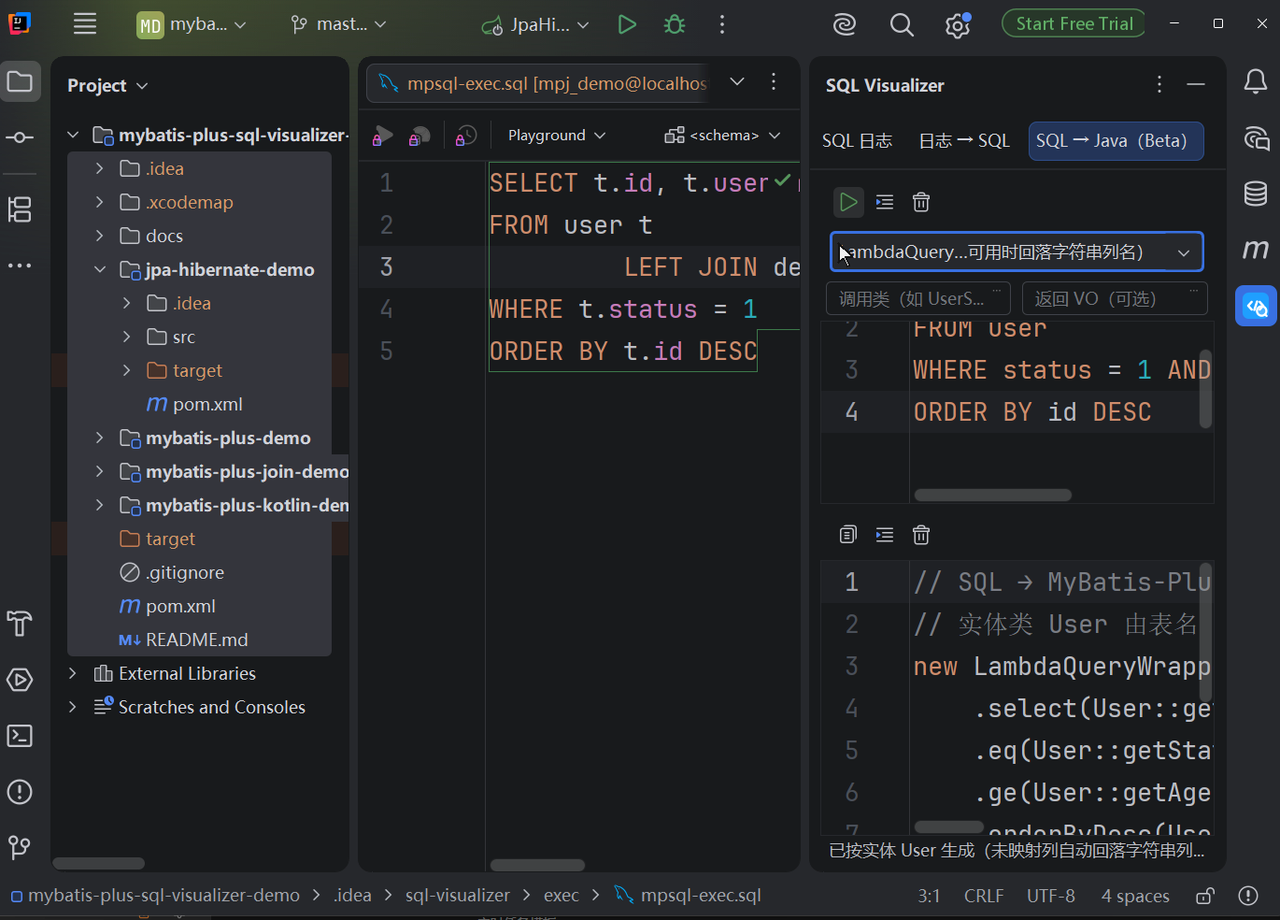
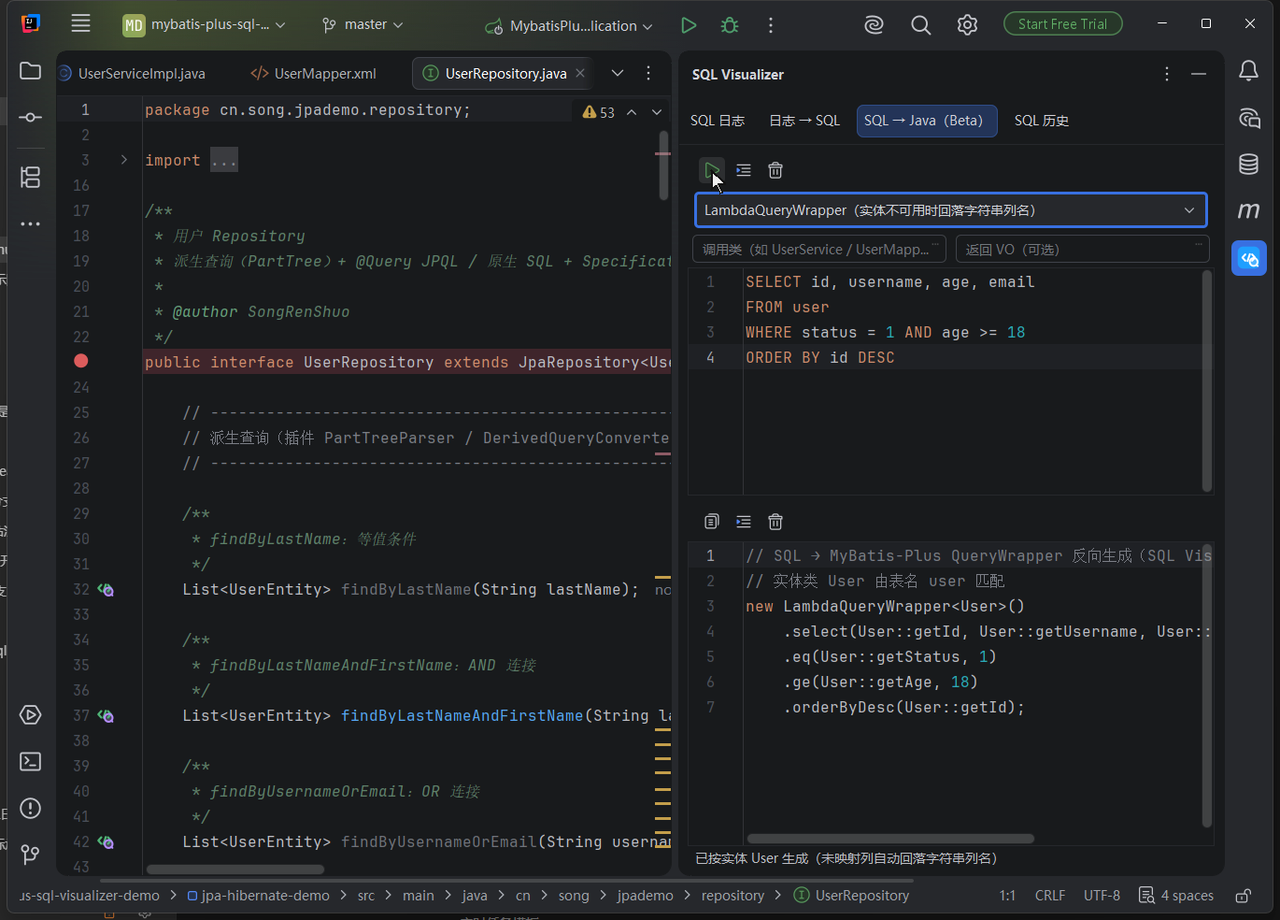
feat(demo): 修订十一落地——T6b sql-to-java 宽侧栏构图重录+T12 GifPlayer hydration 补位+T13 指南配图
- T6b: 输入编辑器回归已消失（master→dev 合并顺带修复）；按用户构图要求重录——工具窗拓宽 ~650px、底部 Services 关闭；成品 10.9s/0.3MB，poster=Lambda 完整代码帧
- T12: GifPlayer.vue 移植 efda401 挂载补位（syncGifState+watch loaded/playing），口径统一为默认显示 GIF、失败回落 poster；实测竞态在懒加载门下不可复现，补位为双保险
- T13: getting-started zh/en 嵌 wrapper-preview.gif；configuration zh/en 嵌 settings.png（主设置页，弹框居中暗色）
- 验收: build 通过 + puppeteer 8 项全绿（冷/热缓存、失败兜底、暗色、指南页、sql-to-java 新图）

diff --git a/.vitepress/theme/components/GifPlayer.vue b/.vitepress/theme/components/GifPlayer.vue
@@ -1,5 +1,5 @@
 <script setup lang="ts">
-import { ref, onMounted, onUnmounted } from 'vue'
+import { ref, onMounted, onUnmounted, watch, nextTick } from 'vue'
 
 const props = defineProps<{
   src: string
@@ -17,7 +17,19 @@ const videoEl = ref<HTMLVideoElement>()
 /** GIF 就绪后淡入覆盖 poster；失败则摘除 GIF 叠层，poster 常驻兜底（T9c） */
 const gifReady = ref(false)
 const gifError = ref(false)
+const gifImg = ref<HTMLImageElement>()
 let observer: IntersectionObserver | null = null
+
+/** 缓存命中的 GIF 可能在 @load 监听器就位前已 complete（hydration 竞态，load 永不
+    触发，gifReady 恒 false → 叠层恒透明退化为静态 poster），按 complete + naturalWidth
+    直接补位（同 efda401 首页两组件口径：就绪置 ready，complete 且宽 0 视为失败） */
+function syncGifState() {
+  if (!props.poster || !playing.value) return
+  const img = gifImg.value
+  if (!img?.complete) return
+  if (img.naturalWidth > 0) gifReady.value = true
+  else gifError.value = true
+}
 
 onMounted(() => {
   if (!container.value) return
@@ -31,7 +43,11 @@ onMounted(() => {
     { rootMargin: '200px' }
   )
   observer.observe(container.value)
+  syncGifState()
 })
+
+// 懒加载门打开后 GIF img 才挂载（暂停/恢复也会重挂），挂载后补一次 complete 检查
+watch([loaded, playing], () => nextTick(syncGifState))
 
 onUnmounted(() => {
   observer?.disconnect()
@@ -84,6 +100,7 @@ function togglePlay() {
            GIF 加载失败摘除叠层，poster 永久兜底。暂停态直接显示 poster 静帧 -->
       <img
         v-if="(playing || !poster) && !gifError"
+        ref="gifImg"
         class="mp-gif-player__gif"
         :class="{ 'mp-gif-player__gif--ready': gifReady, 'mp-gif-player__gif--covered': !!poster }"
         :src="src"

diff --git a/docs/开发计划/20260907-1138-文档站演示图GIF化补齐与替换-开发计划.md b/docs/开发计划/20260907-1138-文档站演示图GIF化补齐与替换-开发计划.md
@@ -5,7 +5,7 @@ search: false
 # 文档站演示图 GIF 化补齐与替换开发计划
 
 - 立项时间：2026-09-07 11:38（2026-09-11 修订九：用户判定 120% 缩放下字号仍偏大，全部录制作废按新构图重录——**构图基线：窗口 1370×984 @ (277,25) 浮动窗（全屏方案已否决）、IDE UI 缩放 120%（ideScale=1.2）、编辑器字体 13pt（对齐 JetBrains 官方视频密度）、项目目录树关闭（**录制前必查项，见 2.4**）、录制区域=窗口外框 (277,25,1370,984)**；录制环境用独立工作区 F:\code\Java\Gitee\SongRenShuo\mpsv-gif-fresh（detached @ c2d37bf，已配 2026.2.1+jcef+toolchain24+独立沙盒 MPSV-GifFresh，config 已带新构图设置，record/ 脚本为最新版），重执行时直接在该工作区 runIde【**修订十作废**：该 worktree 已移除，改用插件仓库 dev 的 `-PgifRecord` 开关，见 2.3】；旧 150% 构图的 6 张成品作废，T3 已有新构图初版。2026-09-07 修订一：录制工具改用 Recordly；新增「每个 GIF 必须配同名静态兜底图」硬性要求与 GifPlayer 兜底改造任务。修订二：新增清晰度基准——按站点实际显示宽度定录制/导出规格，IDEA UI 缩放 150% + 编辑器 18pt + 紧致构图三件套。修订三：吸收 JetBrains 官方 whatsnew 演示视频调研结论，见 2.7——构图/节奏印证三件套方向，wrapper-preview 因首页共用升 1440 导出。修订四：录制与截图环境锁定插件仓库 2026.2 runIde 沙盒（切换步骤见插件仓库《03-开发与测试指南》2.1），主题改为官网演示示例同款（沙盒默认主题），弃用「亮色主题」表述。修订五：官方演示风格由 2.7 调研结论升格为显式风格基准——2.4 加基准引言，验收标准第 2 条挂钩 2.7，实施与验收均以「对齐官方风格」为准绳。2026-09-09 修订六：①主题基准修正——IDEA 官方演示同款为暗色主题，明确录制时手动选用 IDE 暗色主题，此前按浅色理解录制的 4 张（annotation/jpa/batch/code-completion）作废待重录；②录制范围硬性限定为 IDE 窗口画面本身，严禁带入屏幕底部 Windows 任务栏与任何桌面元素；③沙盒激活尝试主 IDE 激活信息复制方案（idea.key 复制/Activation code 粘贴均实测无效，见 2.3），沙盒以免费评估/非商业授权模式运行即可满足录制。2026-09-09 修订七：④首轮成品 10fps 全部卡顿，根因两轮丢帧叠加（Recordly 3× 提速丢 2/3 + ffmpeg fps=10 再抽）+ 光标平滑未生效——修订为 GIF 帧率固定 15fps、提速降到 1.5~2×、关闭 auto-zoom 改固定构图、录制时操作排紧凑尽量单段不拼接，体积放开到 4~6MB 优先保证流畅。2026-09-10 修订八：首轮成品录制方式与节奏正确，但存在「弹窗 UI 重叠」与「SQL 高亮标红」两类画面问题（见实施状态），决定全部重新录制，录制前先修复沙盒样式缺陷与数据源配置；同时新增 T9c 弱网「先 poster → GIF 淡入覆盖」加载体验优化）。2026-09-11 修订十：**录制环境切换方式改为插件仓库内置开关**——插件仓库 dev 分支已把录制四项配置（262 平台 / JCEF / `jvmToolchain(24)` / 独立沙盒 `MPSV-GifFresh`）收敛为 Gradle 属性开关（插件仓库提交 f73df8c，另含误开闸门），录制改为 `./gradlew runIde -PgifRecord=true`，**不再需要临时改 `build.gradle.kts`、也不再需要录完 `git checkout` 还原**；原 `mpsv-gif-fresh` 独立工作区方案随之作废（该 worktree 已移除），改用含该开关的 dev worktree 即可。**注意该开关目前只在插件仓库本地 dev 分支，尚未推送到 origin/dev，master 与 r2 分支均无**——详见 2.3 注意 2。§2.3 / T0b / §五 已同步更新。2026-09-12 修订十一：**① T6 旧成品判废重录**——用户验收发现画面含左侧项目目录树、UI 为旧 150% 大字构图（修订九两处硬性项均不满足），输入编辑器回归 dev 上仍无修复提交，单独立项 T6b（先验回归再录，构图按修订九）；**② 功能详解页 GIF 展示对齐首页（T12）**——根因为 hydration 竞态：GIF 命中浏览器缓存时 img.complete 在 Vue 挂载 @load 监听前已为 true，gifReady 永不置位、GIF 叠层恒透明，用户看到的恒为静态 poster；efda401 已修首页两组件（挂载后按 complete+naturalWidth 补位）但 GifPlayer.vue 未同步，须将同款补位移植进 GifPlayer 并统一口径为「默认显示 GIF、静态图兜底」；**③ 使用指南 6 页零配图（T13）**——guide/ 与 en/guide/ 全部页面无任何演示素材，按页补 GIF/截图。
-- 实施状态：**2026-09-12 修订十一立项（T6b/T12/T13），待实施**。修订九重录已完成的部分：7/8 全部按新构图（1370×984 @ (277,25)、120%、13pt、树关、Islands Dark）重录并逐帧验收，已替换进 public/demo/，docs 本地 commit dfcd81b（其后 master 又有 efda401 hydration 竞态修复等提交，**均未部署，统一等用户确认**）。逐张：T7 annotation 0.9MB/9.7s/接缝0.00；T4 wrapper 1.6MB/7.7s/1440宽/接缝0.03；T2 batch 1.0MB/6.9s/接缝0.01；T8 xml 1.0MB/7.1s/接缝0.03；T3 completion 0.3MB/7.2s/接缝0.05（poster 取补全弹窗展开帧，并证实 09-11 08:16 的「新构图初版」实为打错文件的废 take）；T1 jpa 2.6MB/14.5s/接缝0.31；T5 sql-log 0.8MB/9.4s（接缝3.62为场景结构性跳变可接受；流程改为先运行应用再点捕捉）。T0a 双验证通过：数据源连接正常（SQL 高亮全程无标红）、各弹窗布局无重叠。管线侧修复与重标定已随 dev 提交（b12ddff）：assemble 残留帧混入 bug（decode 前清 frames 目录）、gutter 检测条带/弹窗控件坐标全量重标、IME 须英文态、运行时改 Zoom 的 AWT 最小高度钳制等十项沉淀入录制经验总结 §十。站点验证：npm run build 通过；puppeteer 实测 7 处投放位 GIF 加载且动画播放、poster 常驻+GIF 淡入结构正常、686px 列宽清晰度达标。**遗留**：T6 sql-to-java 旧成品经用户验收判废（画面含目录树 + 旧 150% 大字构图，见修订十一/T6b）；输入编辑器回归（SQL→Java 输入区不接收点击/键盘，疑 T-Perf-07/T-M52 ReadAction 改造引入）dev 上仍无修复提交；功能详解页 GifPlayer 存在 hydration 竞态（efda401 只修首页，见修订十一/T12）。更早状态：修订八前置修复两项随 dev 提交（c2d37bf）：①弹窗头部两行布局根治重叠；②预热临时文件失败优雅降级。SQL 标红根因实证为录制时数据源未完成内省的瞬态。T9a/T9c GifPlayer poster 常驻+0.6s 淡入、T9b 首页两组件同步；16 个功能页 md 因文件同名零改动
+- 实施状态：**2026-09-13 修订十一实施完成（T6b/T12/T13 全部落地）**。要点：①T6b——输入编辑器回归实测已消失（master→dev 合并顺带修复，未单独定位根因），按用户临场构图要求重录：**工具窗拓宽至 ~650px + 底部 Services 控制台关闭**（布局已持久化进 MPSV-GifFresh 沙盒作为后续录制基准），scene_t6 全量重标（tab 活动态改为暗蓝药丸判定：b>60 且 b−r>30，活动 4901/非活动 206，旧亮蓝阈值量到的其实是聚焦下拉边框）；成品 10.9s/0.3MB/163帧、poster=Lambda 完整代码帧，接缝 1.92 为「复制收尾→空输入」结构性跳变（T5 同类可接受）；②T12——GifPlayer.vue 移植 efda401 同款挂载补位（syncGifState 按 complete+naturalWidth 判 ready/error，watch [loaded,playing] 挂载后补检）；实测该竞态在 GifPlayer 懒加载门下不可复现（GIF img 由 Vue 在 loaded 翻转后创建、监听器先于插入就位；dev/线上、冷热缓存均正常动画），补位为双保险并统一口径为「默认显示 GIF、失败回落 poster」；③T13——getting-started zh/en 嵌 wrapper-preview.gif（懒加载滚动触发正常）、configuration zh/en 嵌 settings.png（**主设置页**：Tools > SQL Visualizer 根节点分类卡片视图，弹框居中、Islands Dark、1125×872；初版 SQL 预览子页经用户验收改为主页）；comparison/compatibility/faq/shortcuts 按计划不配图。站点验证：npm run build 通过；本地 preview + puppeteer 验收 8 项全绿（功能页冷/热缓存 GIF 动画、断 GIF 回落 poster、暗色、指南 zh/en、configuration 页含 settings.png、sql-to-java 页新 GIF）。录制管线新增踩坑（详见演示GIF录制指南）：PixPin 全局热键与 IDE 撞车（Ctrl+Shift+A 截图、Ctrl+Alt+S 取色，开 Settings 走工具栏齿轮菜单）；IDE 缓冲污染用 Local History 回滚清理而非 Ctrl+Z；ZCode 自动化面板置顶时会盖住沙盒窗口，点击前必须核对前台窗口标题。修订九重录已完成的部分：7/8 全部按新构图（1370×984 @ (277,25)、120%、13pt、树关、Islands Dark）重录并逐帧验收，已替换进 public/demo/，docs 本地 commit dfcd81b（其后 master 又有 efda401 hydration 竞态修复等提交，**均未部署，统一等用户确认**）。逐张：T7 annotation 0.9MB/9.7s/接缝0.00；T4 wrapper 1.6MB/7.7s/1440宽/接缝0.03；T2 batch 1.0MB/6.9s/接缝0.01；T8 xml 1.0MB/7.1s/接缝0.03；T3 completion 0.3MB/7.2s/接缝0.05（poster 取补全弹窗展开帧，并证实 09-11 08:16 的「新构图初版」实为打错文件的废 take）；T1 jpa 2.6MB/14.5s/接缝0.31；T5 sql-log 0.8MB/9.4s（接缝3.62为场景结构性跳变可接受；流程改为先运行应用再点捕捉）。T0a 双验证通过：数据源连接正常（SQL 高亮全程无标红）、各弹窗布局无重叠。管线侧修复与重标定已随 dev 提交（b12ddff）：assemble 残留帧混入 bug（decode 前清 frames 目录）、gutter 检测条带/弹窗控件坐标全量重标、IME 须英文态、运行时改 Zoom 的 AWT 最小高度钳制等十项沉淀入录制经验总结 §十。站点验证：npm run build 通过；puppeteer 实测 7 处投放位 GIF 加载且动画播放、poster 常驻+GIF 淡入结构正常、686px 列宽清晰度达标。**遗留**：T6 sql-to-java 旧成品经用户验收判废（画面含目录树 + 旧 150% 大字构图，见修订十一/T6b）；输入编辑器回归（SQL→Java 输入区不接收点击/键盘，疑 T-Perf-07/T-M52 ReadAction 改造引入）dev 上仍无修复提交；功能详解页 GifPlayer 存在 hydration 竞态（efda401 只修首页，见修订十一/T12）。更早状态：修订八前置修复两项随 dev 提交（c2d37bf）：①弹窗头部两行布局根治重叠；②预热临时文件失败优雅降级。SQL 标红根因实证为录制时数据源未完成内省的瞬态。T9a/T9c GifPlayer poster 常驻+0.6s 淡入、T9b 首页两组件同步；16 个功能页 md 因文件同名零改动
 - 站点：https://sql-visualizer.jvtools.cn（Cloudflare Pages + VitePress）
 - 站点：https://sql-visualizer.jvtools.cn（Cloudflare Pages + VitePress）
 - 目标：清点文档站全部演示图，占位 SVG 补齐为真实 GIF 录屏，暗色静态截图替换为官方同款主题 GIF 录屏，孤儿资源一并清理。所有 GIF 用 Recordly 在插件仓库 2026.2 runIde 沙盒里模拟真实用户操作录制（截图同样在该沙盒里做），主题用官方演示同款暗色（2026-09-09 修订六），每个 GIF 配一张关键内容静态兜底图。

diff --git a/docs/演示GIF录制指南-说明文档.md b/docs/演示GIF录制指南-说明文档.md
@@ -64,8 +64,11 @@ search: false
 3. **IME**：整个录制期保持英文态，打字前看一眼任务栏指示器。中文态的候选框入镜只有抽帧才能发现。
 4. **T3 类打字场景全键盘化**：goto_line 居中有 ±2 行漂移，点击行坐标不可靠；goto 本身把光标落在目标行行首，之后 End/Enter/键入全键盘完成，鼠标只做演示滑动。
 5. **前台抢夺**：`AttachThreadInput + SetForegroundWindow` 只给焦点不改 Z 序，视觉上窗口还在浏览器后面，坐标点击会穿透。要配 TOPMOST→NOTOPMOST 舞步；点击坐标在窗口可视区内（DWM 阴影边约 13px 不算数，超了就点到后面的窗口上）。
-6. **坐标系两套**：shot.py/region 截图是 region 相对坐标，点击要 +277/+25；全屏截图 raster 是 1280×720，物理坐标 ×1.5。混用是最大的时间坑，写坐标前先想清楚手里是哪张图。
+6. **坐标系两套**：shot.py/region 截图是 region 相对坐标，点击要 +277/+25；全屏截图 raster 是 1280×720，物理坐标 ×1.5。混用是最大的时间坑，写坐标前先想清楚手里是哪张图。裁剪局部图量的坐标还要再加一层偏移——三套数字（屏幕 / region / 裁剪内）逐级换算，点错一格就是 neighboring 控件。
 7. **运行时改 Zoom 的钳制**：见环境就位清单，预写 other.xml 或等空闲后再定位。
+8. **PixPin 全局热键撞车**：PixPin 常驻时 `Ctrl+Shift+A`（截图）、`Ctrl+Alt+S`（取色）都会被它劫持——Find Action 和 Settings 快捷键全部失效还会弹出它的覆盖层。开 Settings 走 IDE 工具栏齿轮菜单；Find Action 期间先确认 PixPin 不在撞键范围。
+9. **IDE 编辑器缓冲污染**：误打进编辑器的文字用 Ctrl+Z 可能撤不掉（撤销栈状态异常），关标签重开也可能复用内存脏 Document。可靠清理是右键 > Local History > Show History，选污染前的时间点 Revert——它按内容快照回滚，不依赖撤销栈。
+10. **置顶覆盖层抢前台**：ZCode 自动化面板等常驻应用若处于置顶态，TOPMOST→NOTOPMOST 舞步会把 IDE 抬回非置顶带、照样被盖住，坐标点击会打进覆盖层（曾误触自动化面板）。点前先 EnumWindows 核对目标窗口标题与位置，必要时让 IDE 持续保持 TOPMOST 干完活再撤。
 
 ## 逐张场景速查（修订九实测）
 
@@ -78,7 +81,7 @@ search: false
 | completion | t3 | goto(77) 后全键盘（End/Enter/join us/Enter），结尾 undo×4 还原现场 |
 | jpa | t1 | 双弹窗：42 行窄窗直取 + goto(147) 中心取簇，结尾回跳 42 保证接缝 |
 | sql-log | t5 | 应用先跑（8081，选 MybatisPlusDemoApplication），捕捉后轮询触发查询 |
-| sql-to-java | t6 | **输入编辑器回归未修**，继续保留旧成品，修好后按 scene_t6 补录 |
+| sql-to-java | t6 | 修订十一已重录（宽侧栏+Services 关闭构图）；回归已消失；tab 判定用暗蓝药丸（见 scene_t6 ensure_sqljava_tab）；复制按钮=输出区图标行左一（1187,421 旧标，宽侧栏下 (1038,582)） |
 
 ## 落地清单（录完到 commit）
 

diff --git a/en/guide/getting-started.md b/en/guide/getting-started.md
@@ -30,6 +30,8 @@ Once installed, on any MyBatis-Plus Wrapper code:
 2. Press <kbd>Alt</kbd>+<kbd>Shift</kbd>+<kbd>Q</kbd> (macOS <kbd>Option</kbd>+<kbd>Shift</kbd>+<kbd>Q</kbd>)
 3. Dialog shows the generated SQL
 
+<GifPlayer src="/demo/wrapper-preview.gif" poster="/demo/wrapper-preview.png" alt="Wrapper preview demo: cursor on a Wrapper chain, SQL generated in a popup" />
+
 <code-group>
 <div title="Java Code">
 

diff --git a/guide/getting-started.md b/guide/getting-started.md
@@ -30,6 +30,8 @@
 2. 按 <kbd>Alt</kbd>+<kbd>Shift</kbd>+<kbd>Q</kbd>（macOS <kbd>Option</kbd>+<kbd>Shift</kbd>+<kbd>Q</kbd>）
 3. 弹窗显示生成的 SQL
 
+<GifPlayer src="/demo/wrapper-preview.gif" poster="/demo/wrapper-preview.png" alt="Wrapper 预览演示：光标置于 Wrapper 链，弹窗实时生成 SQL" />
+
 <code-group>
 <div title="Java 代码">
 

diff --git a/guide/configuration.md b/guide/configuration.md
@@ -2,6 +2,8 @@
 
 所有配置位于 `Settings > Tools > SQL Visualizer`。
 
+![SQL Visualizer 设置主页面（Tools > SQL Visualizer）](/demo/settings.png)
+
 设置变更无需重启 IDE：重新触发预览即按新配置生效。
 
 ## SQL 预览

diff --git a/en/guide/configuration.md b/en/guide/configuration.md
@@ -2,6 +2,8 @@
 
 All settings are located at `Settings > Tools > SQL Visualizer`.
 
+![SQL Visualizer main settings page (Tools > SQL Visualizer)](/demo/settings.png)
+
 No IDE restart needed: re-trigger preview to apply new settings.
 
 ## SQL Preview
